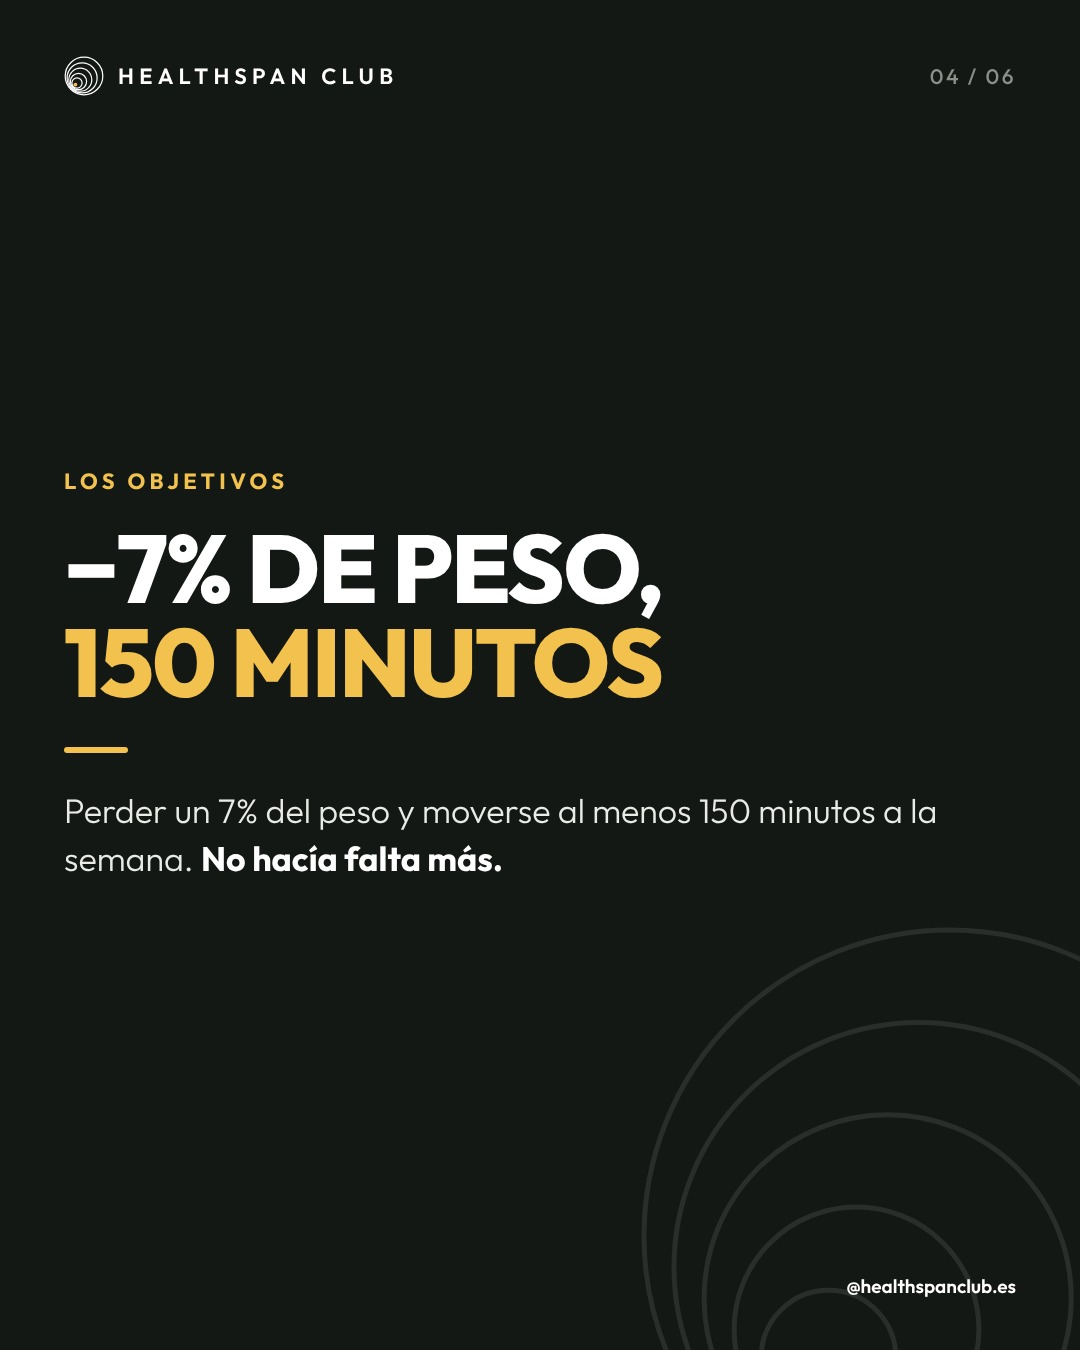
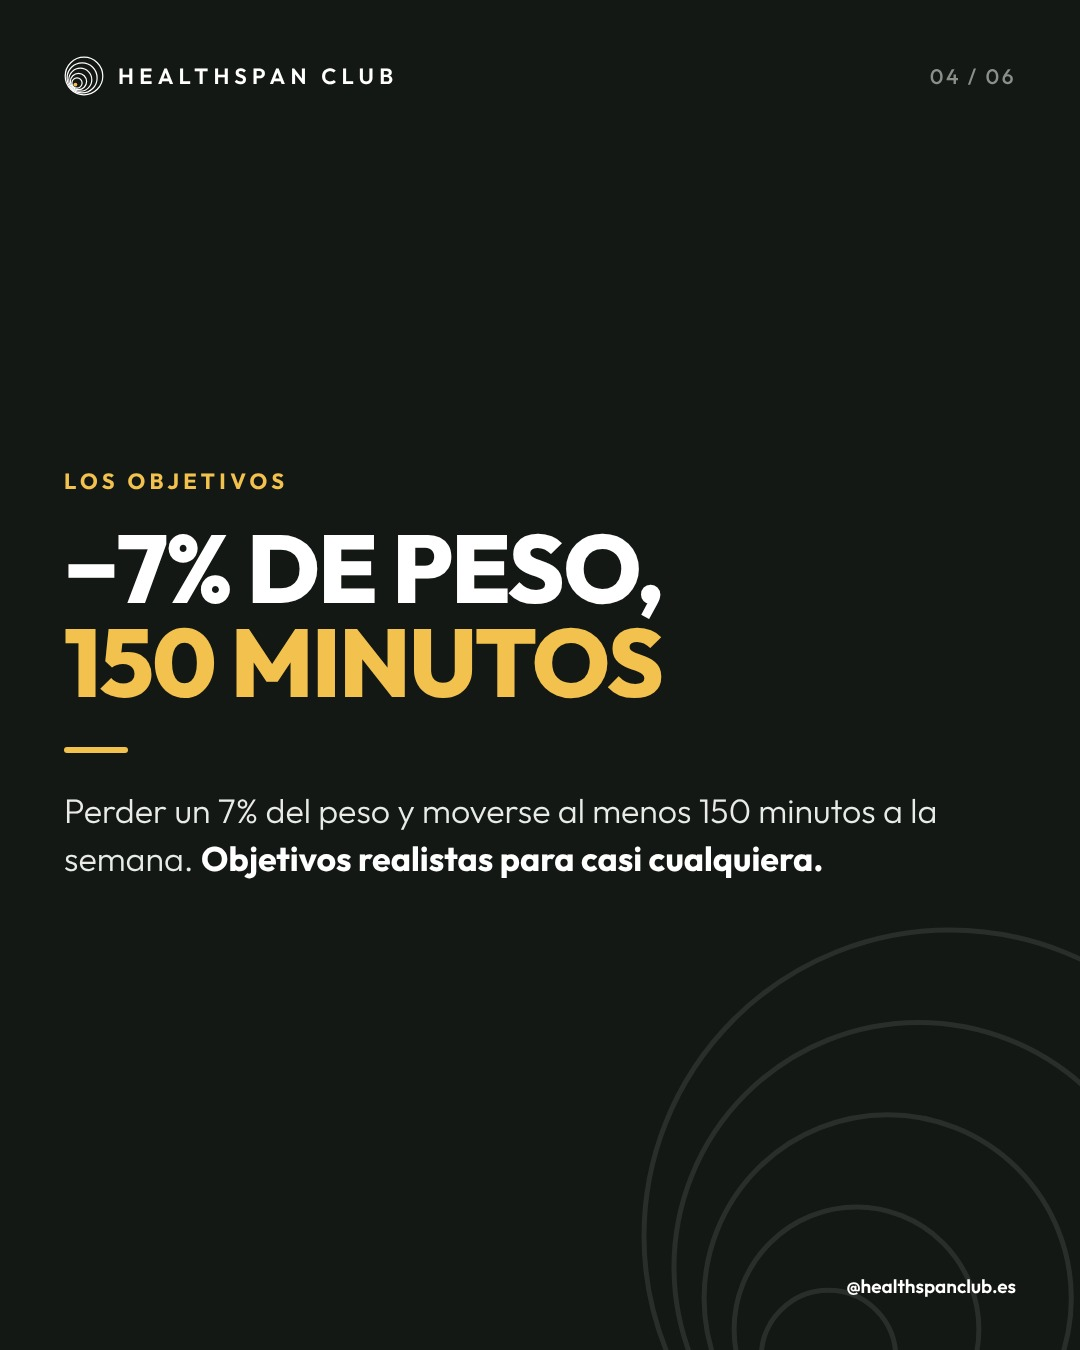
Tweak 90
Claude-Session: https://claude.ai/code/session_0189LKGzZcQmhpSHzyCbdKu4

Changed region(s): [[0.1833, 0.6222, 0.7639, 0.6533]]

diff --git a/content/q_9nov.py b/content/q_9nov.py
@@ -145,7 +145,7 @@ car("90", "2026-11-14T10:00:00",
       "body": "Más del doble que el fármaco, que la redujo un 31%. **Con dos objetivos sencillos.**",
       "source": "Knowler et al., NEJM, 2002"},
      {"kicker": "Los objetivos", "title": "−7% de peso,\n*150 minutos*",
-      "body": "Perder un 7% del peso y moverse al menos 150 minutos a la semana. **No hacía falta más.**"},
+      "body": "Perder un 7% del peso y moverse al menos 150 minutos a la semana. **Objetivos realistas para casi cualquiera.**"},
      {"kicker": "Qué hacer", "title": "Mírate\n*la glucosa*",
       "body": "Si tienes barriga, antecedentes familiares o hace años que no te haces una analítica, **pide que te miren la glucosa y la hemoglobina glicada.**"}],
     "La prediabetes tiene vuelta atrás.\n\nEn el Diabetes Prevention Program, publicado en el NEJM, 3.234 personas con la glucosa alterada siguieron un programa de hábitos, tomaron metformina o placebo. Los objetivos del programa eran perder un 7% del peso y moverse 150 minutos a la semana. Resultado en casi 3 años: un 58% menos de diabetes con los hábitos y un 31% menos con el fármaco.\n\nHoy es el Día Mundial de la Diabetes. Si hace años que no te haces una analítica, pídela. 🩸\n\nCompártelo con quien tenga \"el azúcar un poco alto\".\n\n#longevidad #diabetes #prediabetes #glucosa",
